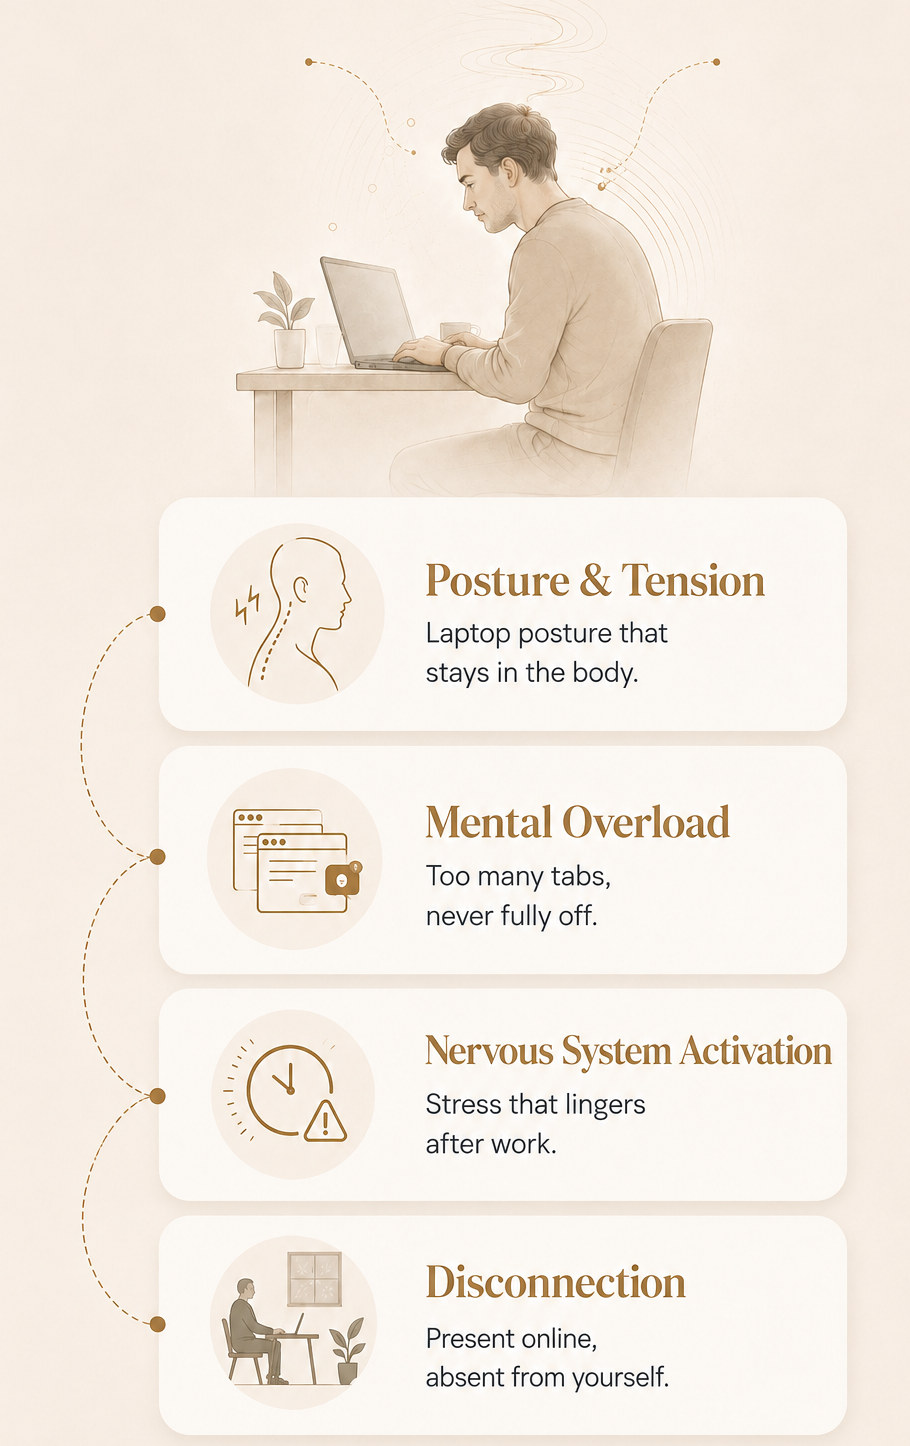
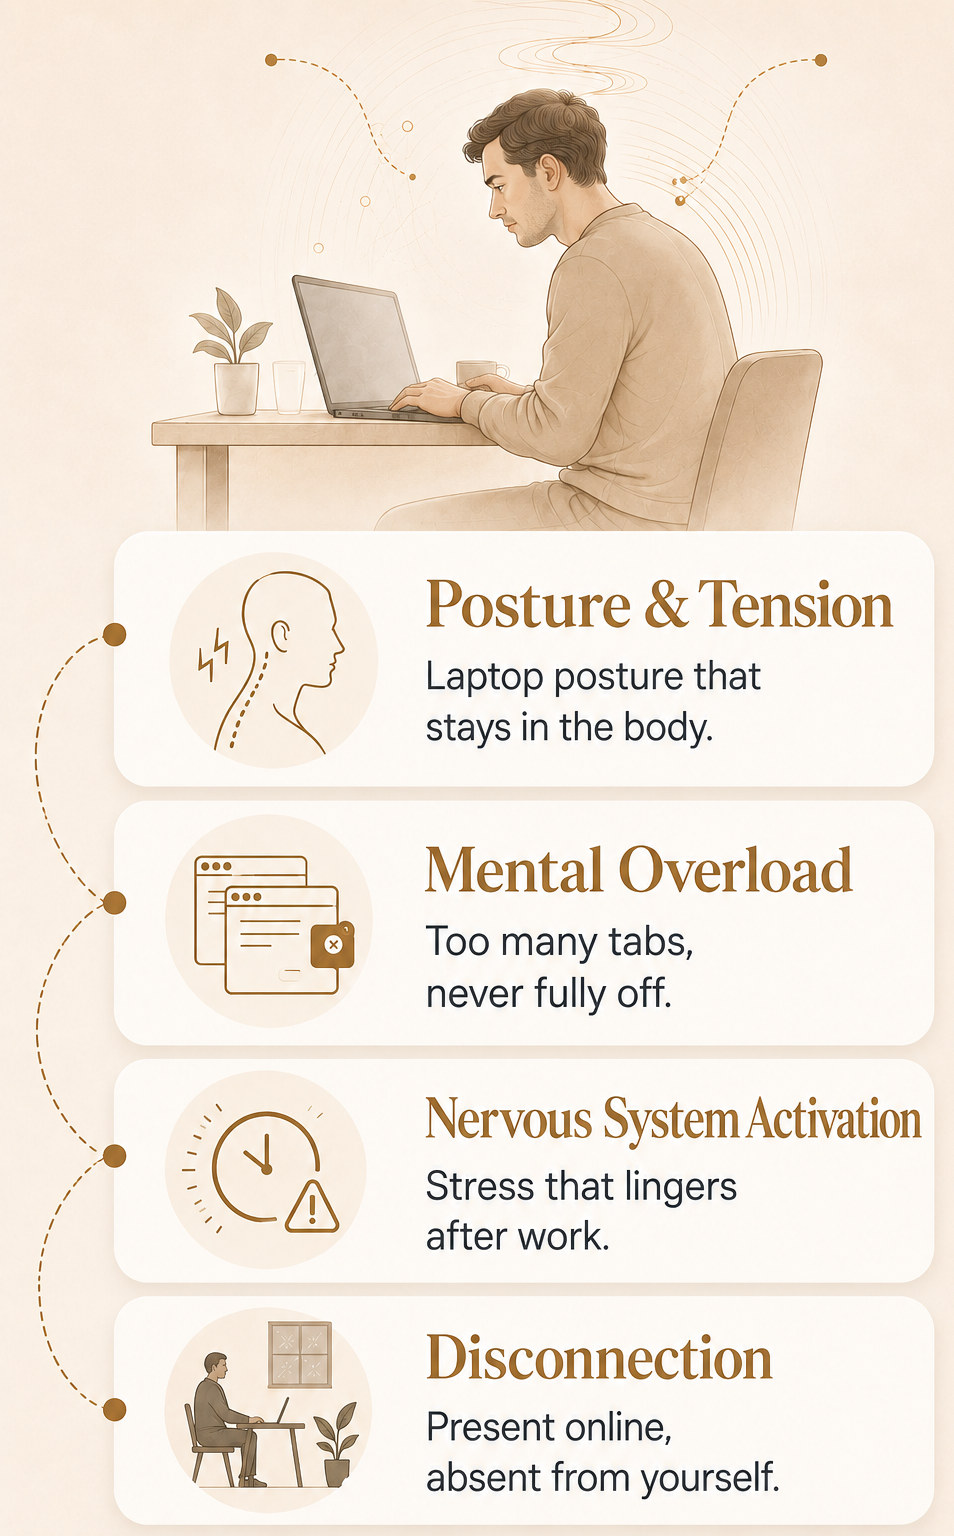
Use the larger-type mobile artwork for the digital-load section
Same stacked layout, but the card text is set noticeably larger, so it
reads properly at 390px.

Cropped the right edge only, to match the 36px left margin and recentre
the composition. Full height kept: the artwork bleeds off the top and
the last card needs its bottom margin. Converted to progressive JPEG,
1.85 MB PNG to 246 KB.

Claude-Session: https://claude.ai/code/session_016QzWexzQV2FeDuvrmBpJtE

diff --git a/thibault-reset/index.html b/thibault-reset/index.html
@@ -161,7 +161,7 @@
 
     <div class="dl-visual">
       <picture>
-        <source media="(max-width: 760px)" srcset="images/digital-load-mobile.jpg" width="910" height="1446">
+        <source media="(max-width: 760px)" srcset="images/digital-load-mobile.jpg" width="954" height="1536">
         <img src="images/digital-load-desktop.jpg" width="1127" height="805" loading="lazy"
              alt="When digital work starts living in your body. Posture and tension: laptop posture that stays in the body. Mental overload: too many tabs, never fully off. Nervous system activation: stress that lingers after work. Disconnection: present online, absent from yourself.">
       </picture>
